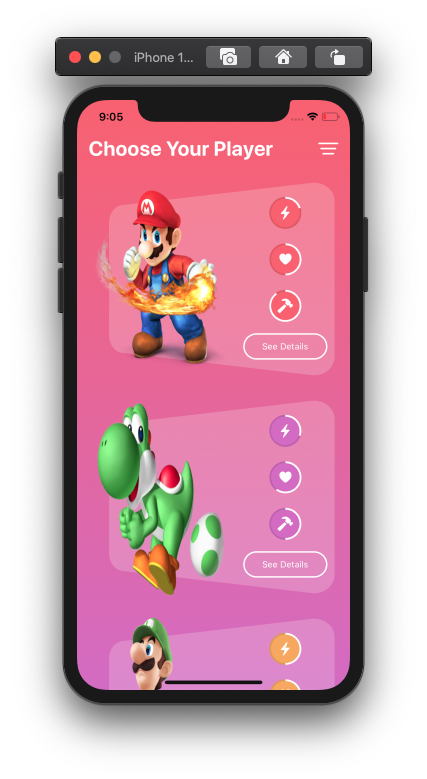
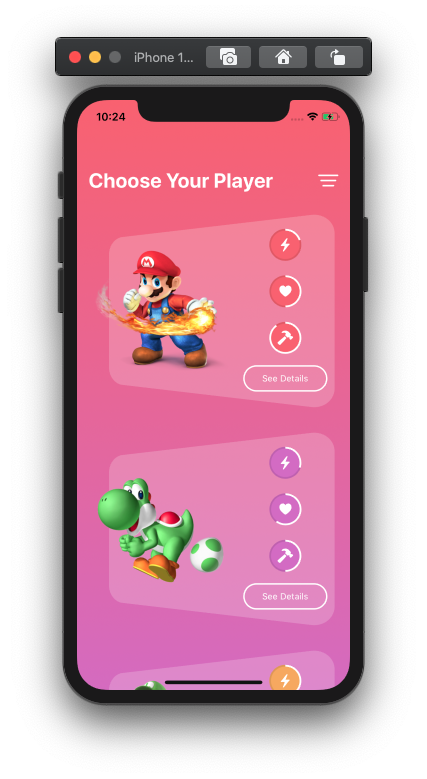
Added detail view

Changed region(s): [[0.2131, 0.1232, 0.7916, 0.8935], [0.7611, 0.1232, 0.7916, 0.154]]

diff --git a/LeagueOLPedia/LeagueOLPedia/ContentView.swift b/LeagueOLPedia/LeagueOLPedia/ContentView.swift
@@ -22,128 +22,14 @@ var data = [
     Player(powers: [0.5, 0.4, 0.8], image: "player3", name: "Yoshi", color: Color("Color2")),
 ]
 
-struct Card: View {
-    var data: Player
-    
-    var body: some View {
-        HStack {
-            Image(self.data.image)
-                .resizable()
-                .frame(width: UIScreen.main.bounds.width / 1.9)
-            
-            Spacer()
-            
-            VStack(spacing: 20) {
-                Spacer(minLength: 0)
-                
-                Image(systemName: "bolt.fill")
-                    .foregroundColor(.white)
-                    .padding()
-                    .background(
-                        ZStack {
-                            self.data.color
-                            Circle()
-                                .stroke(Color.black.opacity(0.1), lineWidth: 5)
-                            Circle()
-                                .trim(from: 0, to: self.data.powers[0])
-                                .stroke(Color.white, lineWidth: 5)
-                        }
-                        .rotationEffect(Angle(degrees: -90))
-                    )
-                    .clipShape(Circle())
-                
-                Image(systemName: "suit.heart.fill")
-                    .foregroundColor(.white)
-                    .padding()
-                    .background(
-                        ZStack {
-                            self.data.color
-                            Circle()
-                                .stroke(Color.black.opacity(0.1), lineWidth: 5)
-                            Circle()
-                                .trim(from: 0, to: self.data.powers[1])
-                                .stroke(Color.white, lineWidth: 5)
-                        }
-                        .rotationEffect(Angle(degrees: -90))
-                    )
-                    .clipShape(Circle())
-                
-                Image(systemName: "hammer.fill")
-                    .foregroundColor(.white)
-                    .padding()
-                    .background(
-                        ZStack {
-                            self.data.color
-                            Circle()
-                                .stroke(Color.black.opacity(0.1), lineWidth: 5)
-                            Circle()
-                                .trim(from: 0, to: self.data.powers[2])
-                                .stroke(Color.white, lineWidth: 5)
-                        }
-                        .rotationEffect(Angle(degrees: -90))
-                    )
-                    .clipShape(Circle())
-                
-                Spacer(minLength: 0)
-                
-                Button(action: {
-                    
-                }) {
-                    Text("See Details")
-                        .font(.caption)
-                        .foregroundColor(.white)
-                        .padding(.vertical, 10)
-                        .padding(.horizontal, 25)
-                        .background(Capsule().stroke(Color.white, lineWidth: 2))
-                }
-                .offset(y: -35)
-            }
-            .padding(.trailing)
-        }
-        .frame(height: 290)
-        .background(
-            Color.white.opacity(0.2)
-            .cornerRadius(25)
-            .rotation3DEffect(Angle(degrees: 18), axis: (x: 0, y: -1, z: 0))
-            .padding(.vertical, 30)
-            .padding(.trailing, 25)
-        )
-        .padding(.horizontal)
-    }
-}
-
 struct ContentView: View {
     var body: some View {
-        VStack {
-            HStack {
-                Text("Choose Your Player")
-                    .font(.title)
-                    .fontWeight(.bold)
-                    .foregroundColor(.white)
-                
-                Spacer()
-                
-                Image(systemName: "line.horizontal.3.decrease")
-                    .font(.title)
-                    .foregroundColor(.white)
-            }
-            .padding(.horizontal)
-            .padding(.top, 50)
-            
-            ScrollView(.vertical, showsIndicators: false) {
-                VStack(spacing: 10) {
-                    ForEach(data) { i in
-                        Card(data: i)
-                    }
-                }
-            }
-            
-            Spacer()
+        NavigationView {
+            Home()
+                .navigationBarTitle("", displayMode: .inline)
+                .navigationBarHidden(true)
+                .navigationBarBackButtonHidden(true)
         }
-        .background(
-            LinearGradient(gradient: .init(colors: [Color("Color"),Color("Color1")]), startPoint: .top, endPoint: .bottom)
-        )
-        .edgesIgnoringSafeArea(.all)
     }
 }
 

diff --git a/LeagueOLPedia/LeagueOLPedia/Card.swift b/LeagueOLPedia/LeagueOLPedia/Card.swift
@@ -1,0 +1,104 @@
+//
+//  Card.swift
+//  LeagueOLPedia
+//
+//  Created by Victor Cordero Utrilla on 5/29/20.
+//  Copyright © 2020 Victor Cordero Utrilla. All rights reserved.
+//
+
+import SwiftUI
+
+struct Card: View {
+    var data: Player
+    
+    var body: some View {
+        HStack {
+            Image(self.data.image)
+                .resizable()
+                .scaledToFit()
+                .frame(width: UIScreen.main.bounds.width / 1.9)
+            
+            Spacer()
+            
+            VStack(spacing: 20) {
+                Spacer(minLength: 0)
+                
+                Image(systemName: "bolt.fill")
+                    .foregroundColor(.white)
+                    .padding()
+                    .background(
+                        ZStack {
+                            self.data.color
+                            Circle()
+                                .stroke(Color.black.opacity(0.1), lineWidth: 5)
+                            Circle()
+                                .trim(from: 0, to: self.data.powers[0])
+                                .stroke(Color.white, lineWidth: 5)
+                        }
+                        .rotationEffect(Angle(degrees: -90))
+                    )
+                    .clipShape(Circle())
+                
+                Image(systemName: "suit.heart.fill")
+                    .foregroundColor(.white)
+                    .padding()
+                    .background(
+                        ZStack {
+                            self.data.color
+                            Circle()
+                                .stroke(Color.black.opacity(0.1), lineWidth: 5)
+                            Circle()
+                                .trim(from: 0, to: self.data.powers[1])
+                                .stroke(Color.white, lineWidth: 5)
+                        }
+                        .rotationEffect(Angle(degrees: -90))
+                    )
+                    .clipShape(Circle())
+                
+                Image(systemName: "hammer.fill")
+                    .foregroundColor(.white)
+                    .padding()
+                    .background(
+                        ZStack {
+                            self.data.color
+                            Circle()
+                                .stroke(Color.black.opacity(0.1), lineWidth: 5)
+                            Circle()
+                                .trim(from: 0, to: self.data.powers[2])
+                                .stroke(Color.white, lineWidth: 5)
+                        }
+                        .rotationEffect(Angle(degrees: -90))
+                    )
+                    .clipShape(Circle())
+                
+                Spacer(minLength: 0)
+                
+                NavigationLink(destination: Detail(data: self.data)) {
+                    Text("See Details")
+                        .font(.caption)
+                        .foregroundColor(.white)
+                        .padding(.vertical, 10)
+                        .padding(.horizontal, 25)
+                        .background(Capsule().stroke(Color.white, lineWidth: 2))
+                }
+                .offset(y: -35)
+            }
+            .padding(.trailing)
+        }
+        .frame(height: 290)
+        .background(
+            Color.white.opacity(0.2)
+            .cornerRadius(25)
+            .rotation3DEffect(Angle(degrees: 18), axis: (x: 0, y: -1, z: 0))
+            .padding(.vertical, 30)
+            .padding(.trailing, 25)
+        )
+        .padding(.horizontal)
+    }
+}
+
+struct Card_Previews: PreviewProvider {
+    static var previews: some View {
+        Card(data: Player(powers: [0.5, 0.4, 0.1], image: "player2", name: "Yoshi", color: Color("Color2")))
+    }
+}

diff --git a/LeagueOLPedia/LeagueOLPedia/Detail.swift b/LeagueOLPedia/LeagueOLPedia/Detail.swift
@@ -1,0 +1,65 @@
+//
+//  Detail.swift
+//  LeagueOLPedia
+//
+//  Created by Victor Cordero Utrilla on 5/29/20.
+//  Copyright © 2020 Victor Cordero Utrilla. All rights reserved.
+//
+
+import SwiftUI
+
+struct Detail: View {
+    var data: Player
+    @Environment(\.presentationMode) var present
+    
+    var body: some View {
+        VStack {
+            ZStack {
+                HStack {
+                    Button(action: {
+                        self.present.wrappedValue.dismiss()
+                    }) {
+                        Image(systemName: "chevron.left")
+                            .font(.title)
+                            .foregroundColor(.white)
+                    }
+                    
+                    Spacer()
+                    
+                    Button(action: {
+                        print("presentation change")
+                    }) {
+                        Image(systemName: "circle.grid.2x2.fill")
+                            .font(.title)
+                            .foregroundColor(.white)
+                    }
+                }
+                
+                Text("Overview")
+                    .font(.title)
+                    .fontWeight(.bold)
+                    .foregroundColor(.white)
+            }
+            .padding()
+            
+            Image(self.data.image)
+                .resizable()
+                .scaledToFit()
+                .frame(width: UIScreen.main.bounds.width - 30, height: UIScreen.main.bounds.height / 2)
+                .background(Color.white.opacity(0.2))
+                .cornerRadius(30)
+            
+            Spacer()
+        }
+        .background(LinearGradient(gradient: Gradient(colors: [Color("Color2"), Color("Color3")]), startPoint: .top, endPoint: .bottom).edgesIgnoringSafeArea(.all))
+        .navigationBarTitle("", displayMode: .inline)
+        .navigationBarHidden(true)
+        .navigationBarBackButtonHidden(true)
+    }
+}
+
+struct Detail_Previews: PreviewProvider {
+    static var previews: some View {
+        Detail(data: Player(powers: [0.5, 0.4, 0.1], image: "player2", name: "Yoshi", color: Color("Color2")))
+    }
+}

diff --git a/LeagueOLPedia/LeagueOLPedia/Home.swift b/LeagueOLPedia/LeagueOLPedia/Home.swift
@@ -1,0 +1,50 @@
+//
+//  Home.swift
+//  LeagueOLPedia
+//
+//  Created by Victor Cordero Utrilla on 5/29/20.
+//  Copyright © 2020 Victor Cordero Utrilla. All rights reserved.
+//
+
+import SwiftUI
+
+struct Home: View {
+    var body: some View {
+        VStack {
+            HStack {
+                Text("Choose Your Player")
+                    .font(.title)
+                    .fontWeight(.bold)
+                    .foregroundColor(.white)
+                
+                Spacer()
+                
+                Image(systemName: "line.horizontal.3.decrease")
+                    .font(.title)
+                    .foregroundColor(.white)
+            }
+            .padding(.horizontal)
+            .padding(.top, 50)
+            
+            ScrollView(.vertical, showsIndicators: false) {
+                VStack(spacing: 10) {
+                    ForEach(data) { i in
+                        Card(data: i)
+                    }
+                }
+                .padding(.bottom)
+            }
+        }
+        .background(
+            LinearGradient(gradient: .init(colors: [Color("Color"),Color("Color1")]), startPoint: .top, endPoint: .bottom)
+                .edgesIgnoringSafeArea(.all)
+        )
+        .edgesIgnoringSafeArea(.bottom)
+    }
+}
+
+struct Home_Previews: PreviewProvider {
+    static var previews: some View {
+        Home()
+    }
+}
